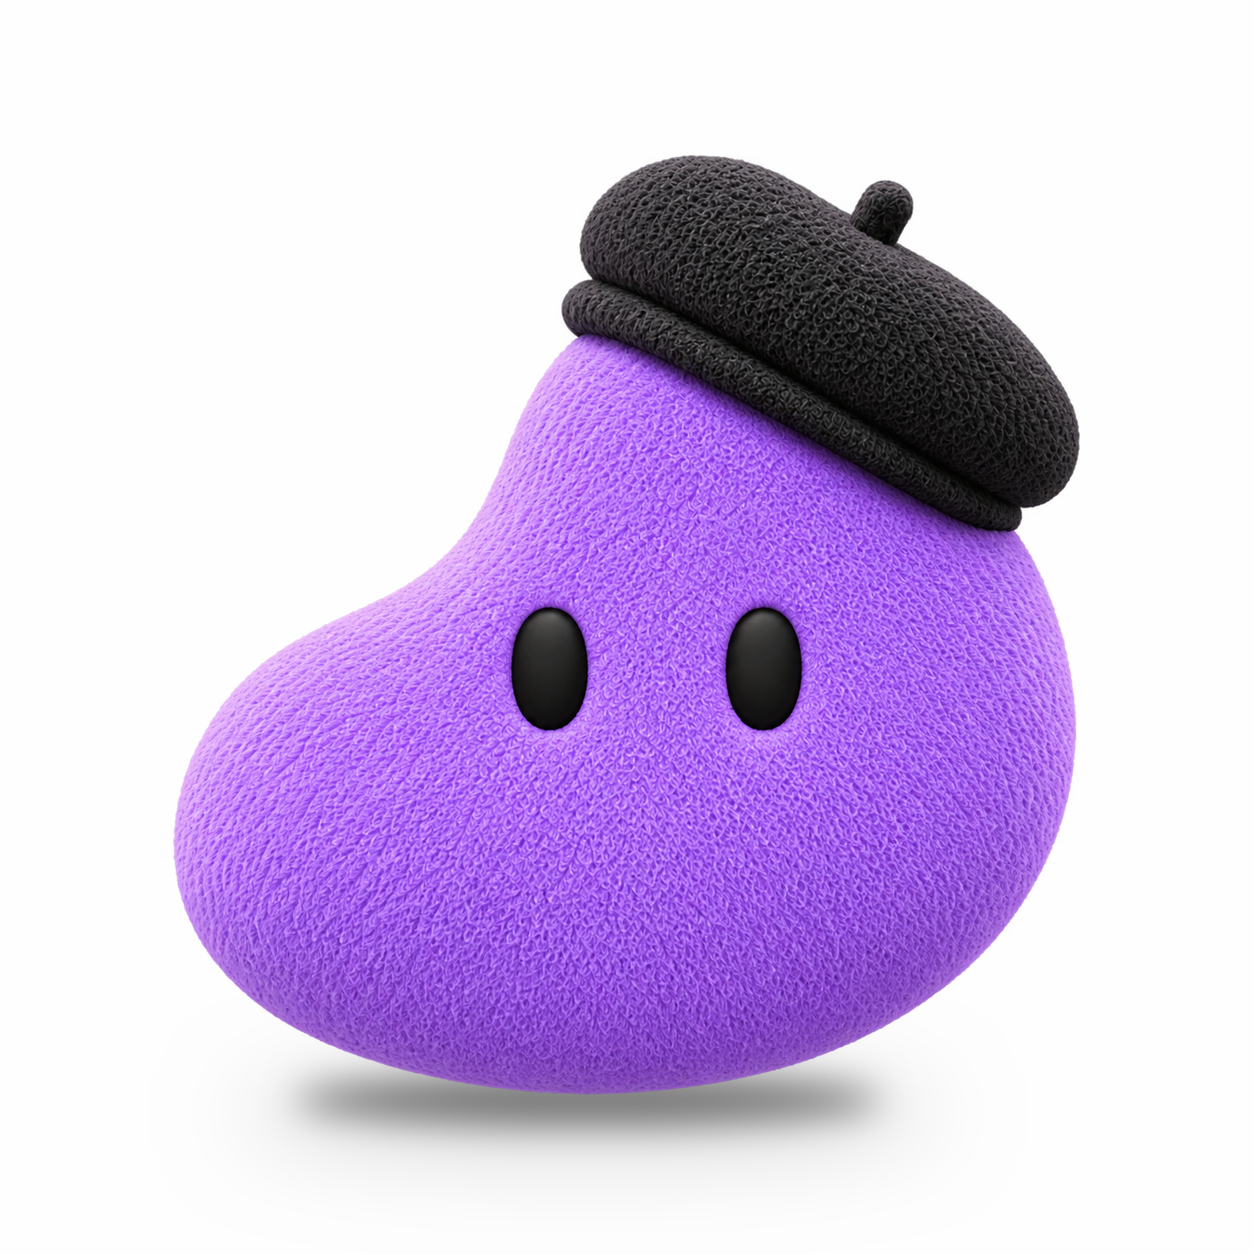
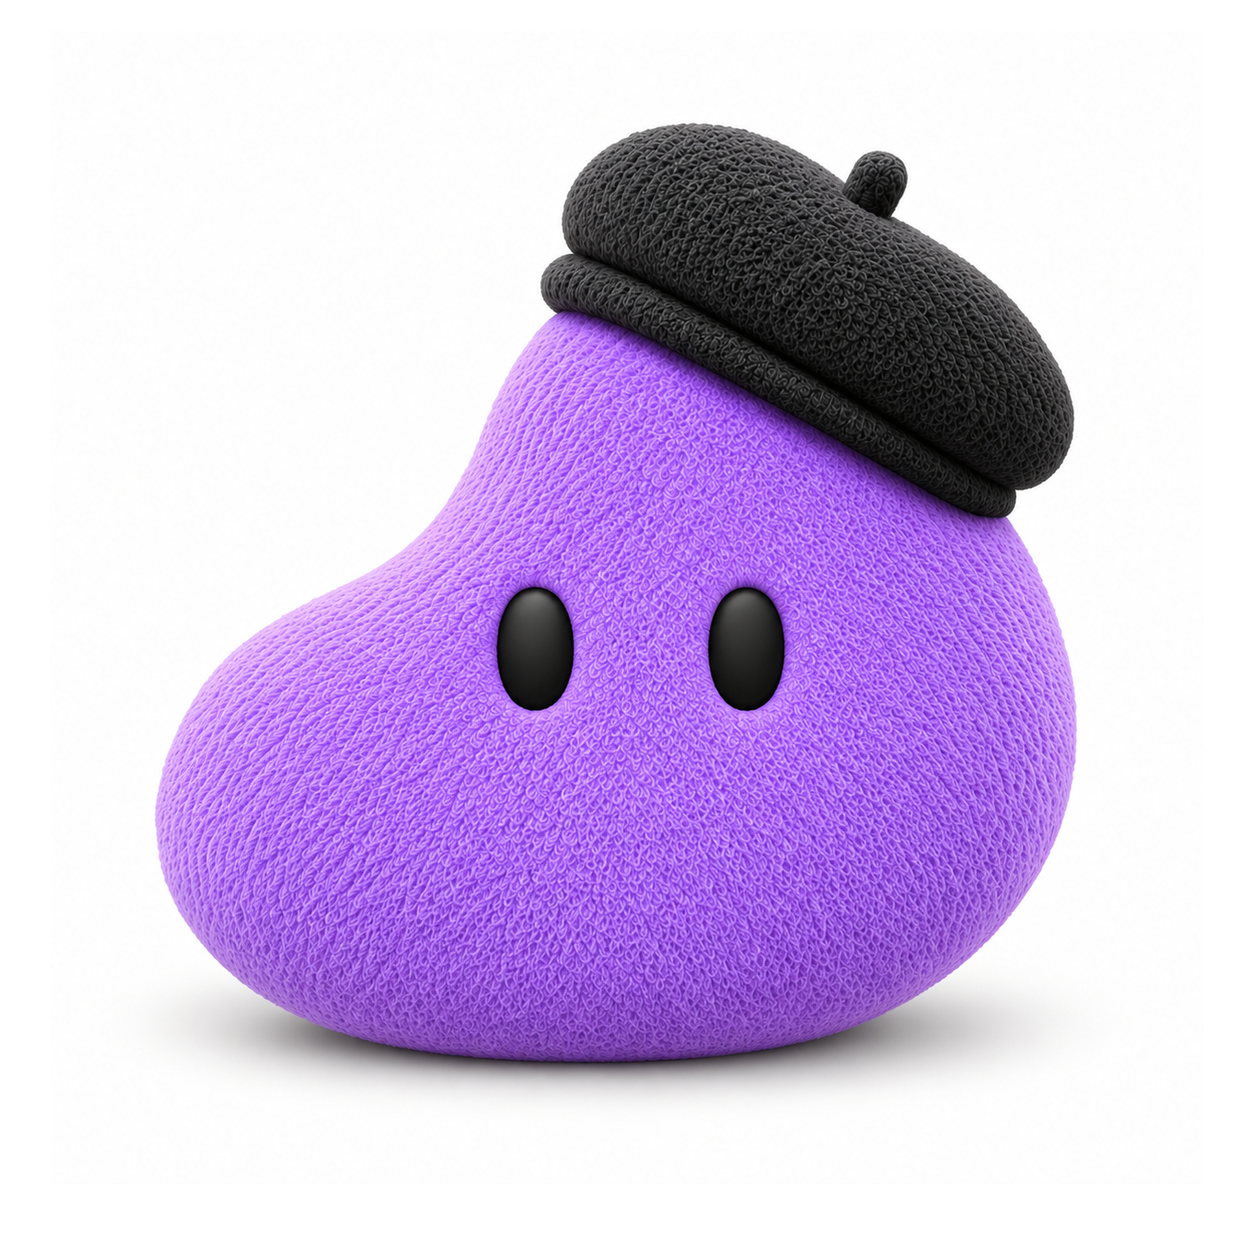
docs(design): doany buddy card
Replace the composite draft with an image_gen card referenced only to the original Doany for identity and the supplied Puri and Dungdung cards for framing and shadow. Normalize the generated card uniformly to match their scale; retain 1254-square RGB output. Browser preview loads all five cards; human approval remains pending.

Changed region(s): [[0.1244, 0.0933, 0.8708, 0.933]]

diff --git a/.doan/assets/buddies/README.md b/.doan/assets/buddies/README.md
@@ -18,7 +18,7 @@ Doany's equivalent of each file is in brackets.
 
 | File | What | State |
 |---|---|---|
-| `card.png` | 1254² RGB, white with a soft contact shadow: the selection-card picture | friends: the supplied drafts as they are; Doany: composite draft (below) |
+| `card.png` | 1254² RGB, white with a soft contact shadow: the selection-card picture | friends: the supplied drafts as they are; Doany: generated card, pending human review (below) |
 | `still.png` | 1254² RGBA, transparent, no shadow: the still and WebGL fallback [`../doany/v2/doany.png`] | Puri: ready for human review; other friends: to do |
 | `body.png` | 1254² RGBA, same coordinates, eyes and accessory removed, hidden body restored [`v2/body.png`] | Puri: ready for human review; other friends: to do |
 | `accessory.png` | 1254² RGBA, same coordinates, accessory only [`v2/hat.png`] | Puri: ready for human review; other friends: to do |
@@ -45,9 +45,12 @@ Rig numbers (eye centres and radii, body and accessory pivots, accessory tilt ra
   (1478 × 789) is it trimmed to its content at 3% fuzz, given a 16 px white border, and its near-white backdrop
   flood-filled to pure white at 4% fuzz from the corner, so it sits on a white panel without a visible box. It is
   used by `.doan/canvases/buddy-welcome.html` and `buddy-installer.html`.
-- Doany's `card.png` is a draft: `../doany/v2/doany.png` cropped to its alpha box, scaled to 940 px high, its
-  bottom at y 1095 and centred, over a two-ellipse contact shadow fitted by eye to the friends' cards (Gaussian
-  blur 18 and 40). A Codex worker redraws it from the original (below).
+- Doany's `card.png` was made with built-in image_gen (one generation), using `../doany/v2/doany.png` as the only
+  character reference and Puri's and Dungdung's cards as white-background, framing and contact-shadow references.
+  The prompt preserves the original violet Pebble, black beret, pose, proportions, texture and colour, asking
+  for the friends' soft floor shadow. The generated square was uniformly reduced to 1154², placed at (50, 30)
+  on white and saved as 1254² RGB to match their scale and bottom line. The original still is unchanged.
+  The full prompt, generation and five-card comparison are local in `.scratch/buddy-assets/`; human review is pending.
 
 ## Working-notice source boxes
 
@@ -104,12 +107,10 @@ is pending; the app has not implemented this buddy yet. CPU headroom verificatio
 `doanyRender.test.ts`'s motion sequences: 735,160 poses retained at least 6.57 device px in Home's 228 px buffer
 and 8.24 in the 286 px buffer. It does not establish WebGL rendering parity.
 
-## Next: Doany's card
+## Doany's card review
 
-Redraw `doany/card.png` with the image generation tool from Doany's original still (`../doany/v2/doany.png`)
-as the only character reference and the friends' cards as the style reference: the same Pebble, beret, pose and
-colour, on white with the friends' soft contact shadow, at their scale and bottom line. Do not reshape or recolour
-Doany. It replaces the composite draft in place, so the canvases need no change.
+`doany/card.png` replaces the composite draft at the same path, so picker canvases need no markup change.
+Compare all five cards in `buddy-choice.html` before approving the generated card's identity, scale and shadow.
 
 ## Next: transparent still and layers (per friend)
 
